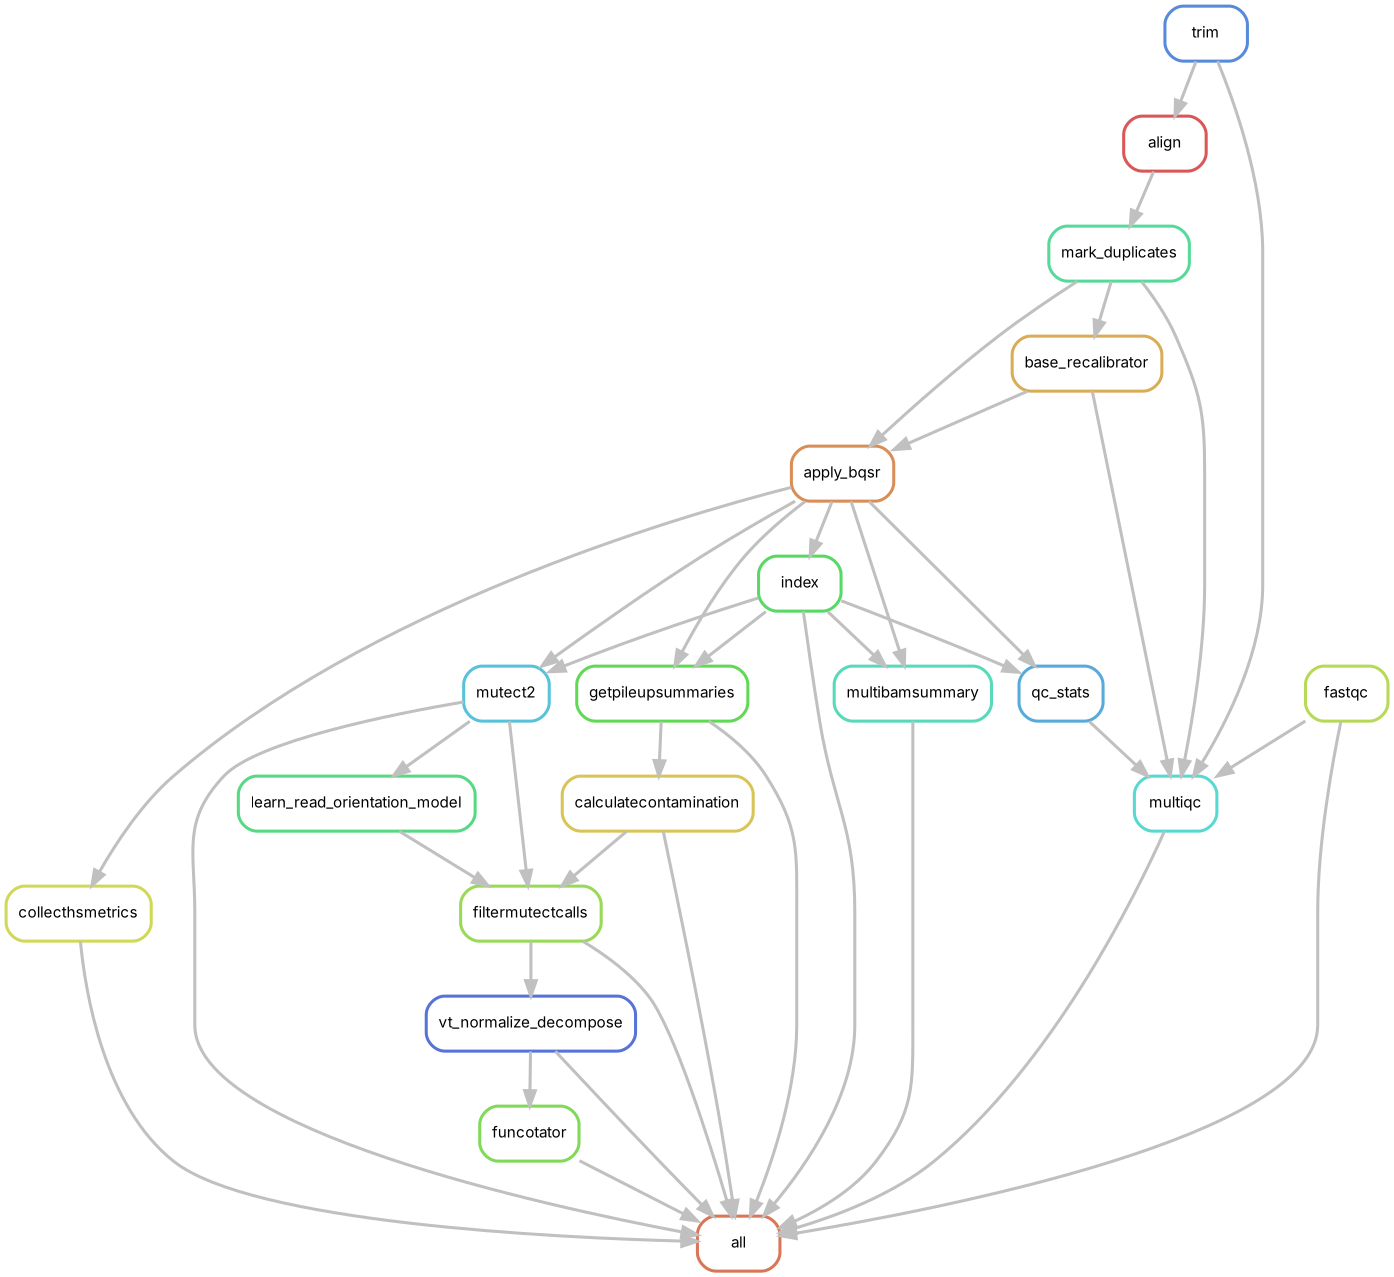
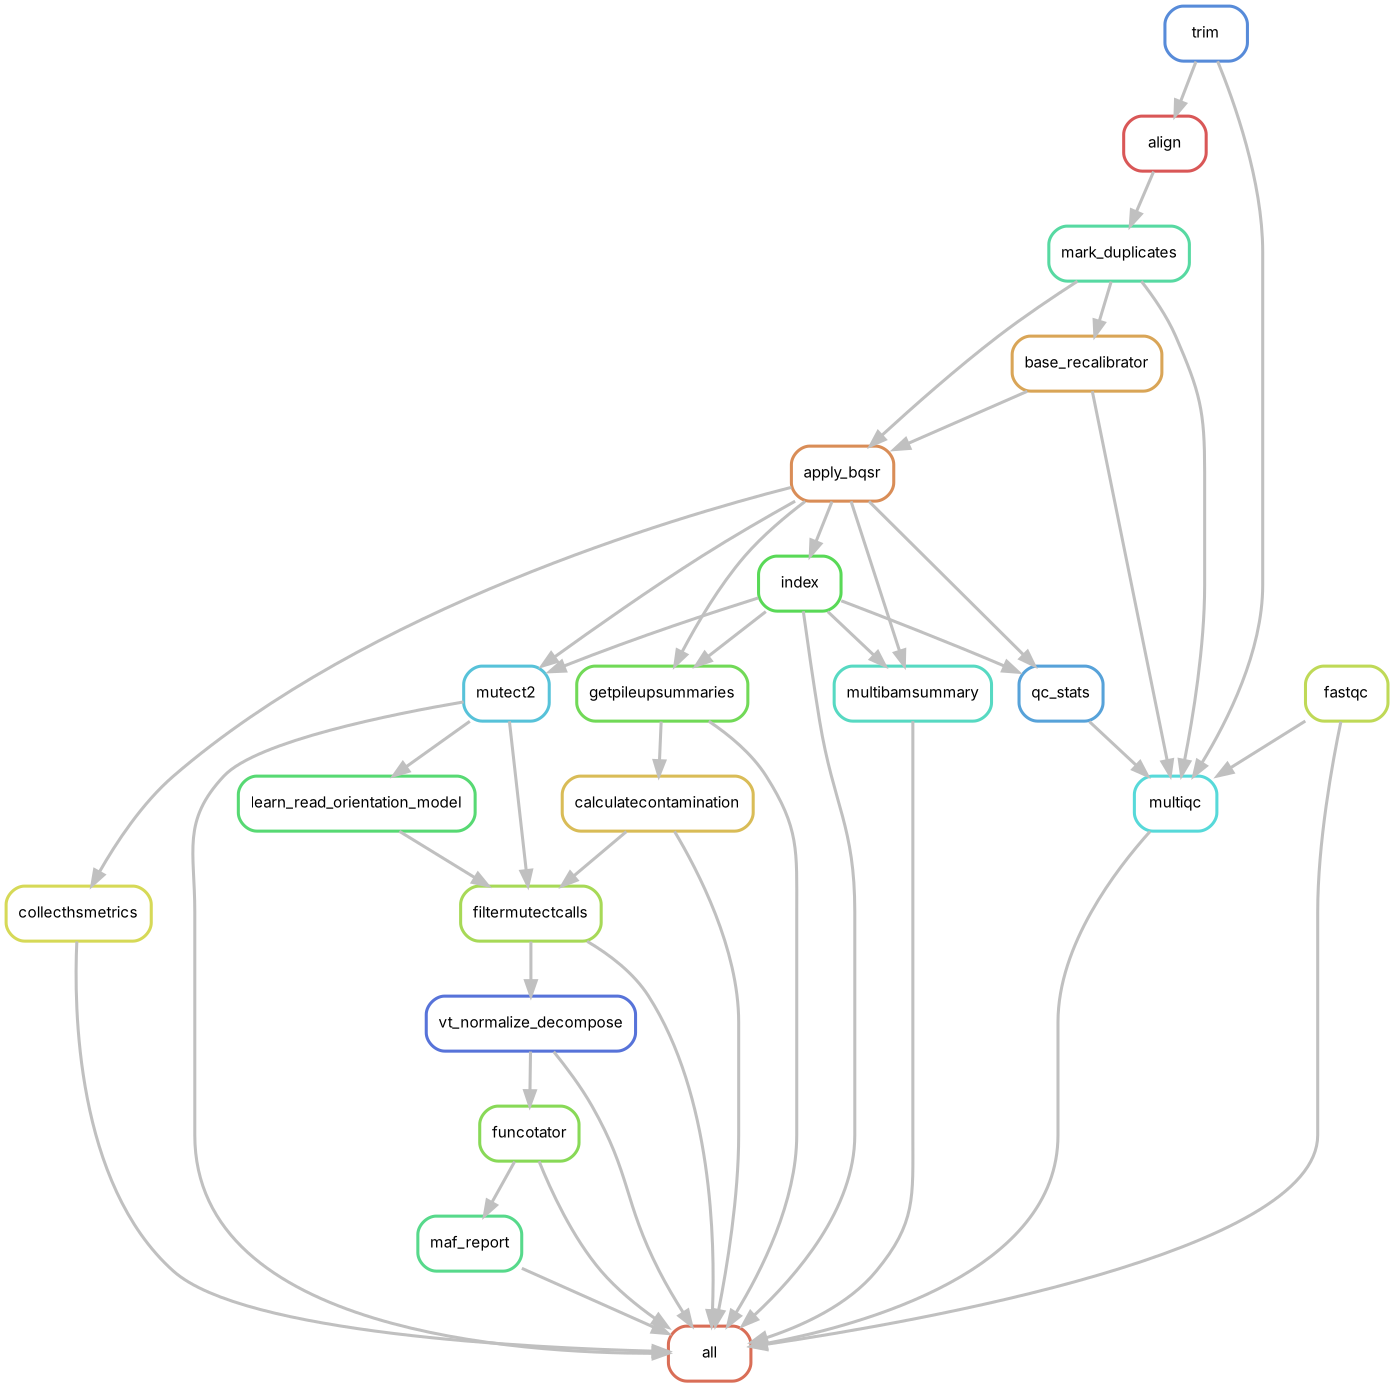
Adding final report script

diff --git a/README.md b/README.md
@@ -47,14 +47,18 @@ AVANTseq/
 │   ├── align.smk               # Align with bwa mem, mark duplicates and recalibrate base qualities (BQSR)
 │   ├── qc.smk                  # Check sequencing and alignment quality
 │   ├── pon.smk                 # Generate a custom PoN and merge with an existing one
+│   ├── report.smk              # Merge filtered MAFs, maftools summary and oncoplot
 │   ├── variants.smk            # Call, filter and annotate somatic variants (Mutect2, orientation bias, Funcotator)
 ├── config/
 │   ├── config.yaml             # Configuration file containing the paths for required files (shared by both pipelines)
 │   ├── samples_normal.yaml     # Normal samples list (used by CreatePoN.smk)
 │   ├── samples_tumor.yaml      # Tumor samples list (used by AVANTseq.smk)
+├── scripts/maf_report.R        # R script used by the report rule
 ├── docs/                       # Detailed documentation and rule graphs for each pipeline
 ├── CreatePoN.smk               # Top-level Snakefile to create custom PoN from normal samples
 ├── AVANTseq.smk                # Top-level Snakefile to call somatic variants from tumor samples using the PoN previously generated
+├── envs/avantseq.yaml          # Conda environment with all required tools
+├── install_env.sh              # Creates the conda environment
 ├── CITATION.cff                # Citation metadata
 ├── LICENSE.txt                 # MIT license file
 └── README.md                   # This file
@@ -62,7 +66,14 @@ AVANTseq/
 
 ## 🔧 Requirements
 
-To run this pipeline, the following tools must be installed and available in your `PATH`:
+The easiest way to install everything (including Snakemake) is the provided conda environment:
+
+```bash
+bash install_env.sh          # creates the "avantseq" environment from envs/avantseq.yaml
+conda activate avantseq
+```
+
+Alternatively, the following tools must be installed and available in your `PATH`:
 
 - [BWA](http://bio-bwa.sourceforge.net/) – read alignment  
 - [deepTools](https://deeptools.readthedocs.io/) – coverage summary (multiBamSummary)  
@@ -74,6 +85,7 @@ To run this pipeline, the following tools must be installed and available in you
 - [samtools](http://www.htslib.org/) – BAM file processing  
 - [tabix / htslib](http://www.htslib.org/) – VCF indexing  
 - [vt](https://genome.sph.umich.edu/wiki/Vt) – VCF normalization
+- [R](https://www.r-project.org/) with [maftools](https://bioconductor.org/packages/maftools/) – final report (summary plot and oncoplot)
 
 ---
 
@@ -102,6 +114,7 @@ The configuration YAML file should define all necessary file paths and sample na
 - `germline_resource`: Germline allele frequency resource VCF
 - `vcf_exac`: ExAC common variants VCF file (for contamination estimation)
 - `data_source`: Funcotator data source directory (for annotation)
+- `report_min_depth`, `report_min_alt`, `report_min_vaf`, `report_max_pop_af`: Filters for the final report (minimum depth, minimum alt reads, minimum VAF, maximum gnomAD population allele frequency); only variants inside the `bed` covered regions are reported
 
 Both pipelines read `config/config.yaml`; `CreatePoN.smk` reads the sample list from `config/samples_normal.yaml` and `AVANTseq.smk` from `config/samples_tumor.yaml`. Run Snakemake from the repository root (or point to your own files with `--configfile`). Please refer to the `config.yaml` file provided in the `config/` folder for detailed descriptions of each parameter.
 

diff --git a/docs/AVANTseq.md b/docs/AVANTseq.md
@@ -102,8 +102,19 @@ The AVANTseq pipeline generates the following output files for each sample, grou
 
 ---
 
+#### Report
+
+- `report/all_samples_filtered.maf`  
+  All samples merged into one MAF after filtering: variants inside the covered regions (`bed`), total depth ≥ `report_min_depth` (default 20), alt reads ≥ `report_min_alt` (default 4), VAF ≥ `report_min_vaf` (default 0.10) and gnomAD population allele frequency ≤ `report_max_pop_af` (default 0.001, taken from the Mutect2 `POPAF` field) to remove remaining germline variants in tumor-only mode. Funcotator classifications unknown to maftools are recoded (`START_CODON_*` → `Translation_Start_Site`, `DE_NOVO_START_*` → `5'UTR`, `COULD_NOT_DETERMINE` → `Unknown`); any other unrecognised value is reported in `report/maf_report.log`. The log also lists the number of variants per sample before and after each filter.
+
+- `report/maf_summary.pdf`, `report/oncoplot.pdf`  
+  Cohort summary and oncoplot generated with **maftools**. Samples without any variant passing the filters are listed in `report/maf_report.log` and do not appear in the plots.  
+  [maftools documentation](https://bioconductor.org/packages/maftools/)
+
+---
+
 ### Notes and limitations
 
 - **Tumor-only calling.** Without a matched normal, rare germline variants that are absent from gnomAD and from the Panel of Normals can remain in the final output. Interpret variants with a population allele frequency close to 0 and a VAF around 50% or 100% with care.
 - **Germline and PoN sites in the raw VCF.** Mutect2 runs with `--genotype-germline-sites` and `--genotype-pon-sites`, so the raw and filtered VCFs also contain these sites (flagged as `germline` or `panel_of_normals`). This keeps them available for downstream analyses such as clonality; they are removed from the final MAF.
-- **Contamination on small panels.** The contamination estimate is based on common germline sites inside the target regions. With small panels only a few informative sites are available, so the estimate is less precise.
+- **Contamination on small panels.** The contamination estimate and tumor segmentation are based on common germline sites covered by reads (on- and off-target). With small panels only a few informative sites are available, so the estimate is less precise.

diff --git a/CHANGES_v1.1.0.md b/CHANGES_v1.1.0.md
@@ -4,6 +4,8 @@
 - **Base quality score recalibration (BQSR)** in both pipelines: GATK BaseRecalibrator (restricted to the target regions + 50 bp) and ApplyBQSR. Requires the new `known_sites` list in `config/config.yaml` (e.g. dbSNP, Mills & 1000G indels).
 - **Read orientation bias filtering**: Mutect2 now collects F1R2 counts, LearnReadOrientationModel learns orientation bias priors and FilterMutectCalls uses them (`--ob-priors`). Removes artefacts such as FFPE deamination and oxoG damage.
 - **fastp replaces Atropos** for trimming: automatic paired-end adapter detection, 3' quality trimming and length filtering. Settings are configurable in `config/config.yaml` (`fastp_cut_tail_quality`, `fastp_min_length`, `fastp_extra`). fastp reports are included in MultiQC.
+- **Final report**: the per-sample MAFs are filtered (covered regions from the BED file, depth, alt reads, VAF, gnomAD population frequency), merged and summarised with maftools (summary plot and oncoplot in `report/`). Filters are configurable in `config/config.yaml`.
+- **Conda environment** with all required tools, including Snakemake: `bash install_env.sh` (see `envs/avantseq.yaml`).
 
 ## Fixed
 - Adapters were not trimmed in previous versions (Atropos ran with `--no-default-adapters` and no adapter sequence).
@@ -12,7 +14,6 @@
 ## Changed
 - CreateSomaticPanelOfNormals uses the gnomAD germline resource (`--germline-resource`), as in the GATK PoN workflow.
 - GenomicsDBImport uses the same 50 bp interval padding as Mutect2 and `--merge-input-intervals true` (much faster with many panel intervals).
-- GetPileupSummaries is restricted to common sites inside the target regions.
 - Read groups now include a library tag (`LB`).
 - MultiQC also collects MarkDuplicates and BQSR metrics; duplicate metrics moved to `alignment/qc/markdup/`.
 - The `{sample}` wildcard is constrained to the names in the sample file.
